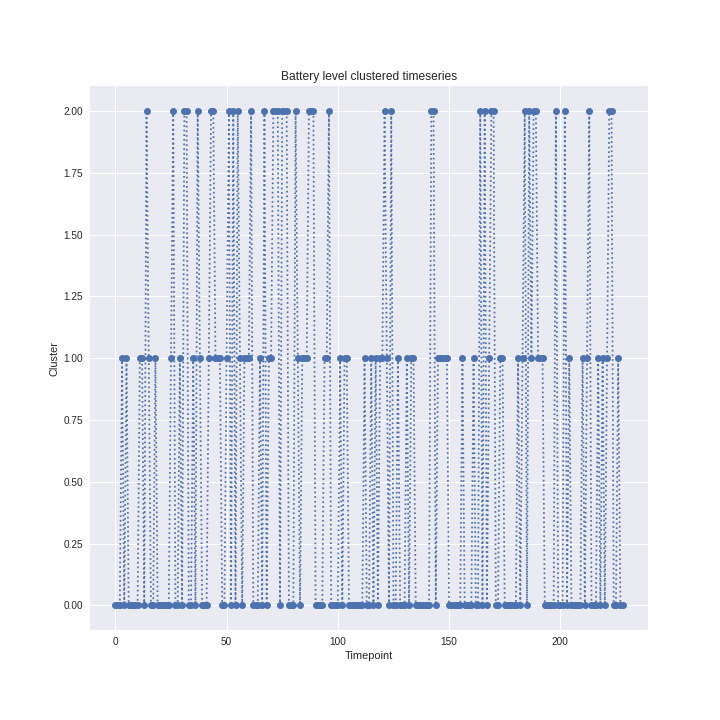
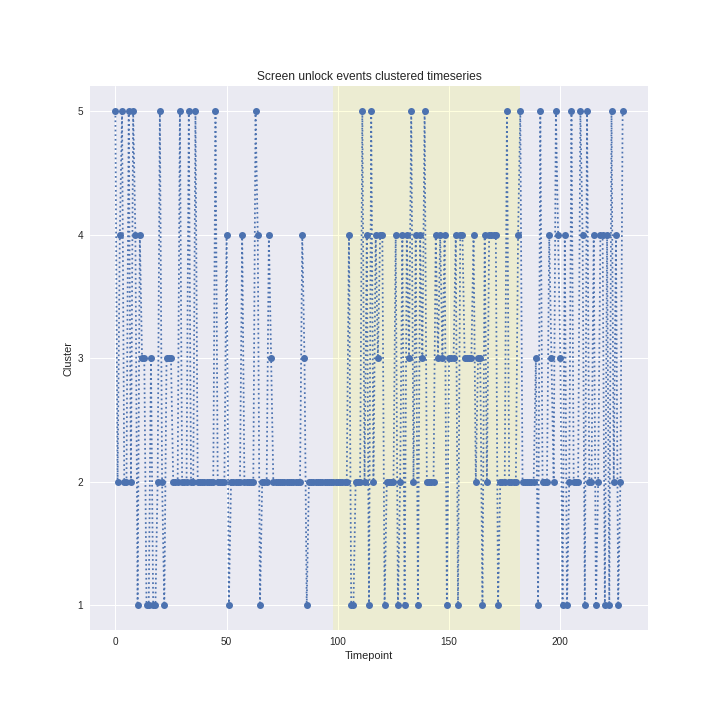
18032021¨

diff --git a/Source/Analysis/run_all.py b/Source/Analysis/run_all.py
@@ -12,6 +12,9 @@ import matplotlib.pyplot as plt
 from pathlib import Path
 import copy
 
+from datetime import datetime
+from matplotlib.dates import date2num
+
 # Local application import
 from Source.Analysis.calculate_similarity import calculate_similarity
 from Source.Analysis.calculate_novelty import compute_novelty, compute_stability
@@ -36,6 +39,71 @@ df = pd.read_csv(df_path)
 df['date'] = pd.to_datetime(df['date'])
 df = df.set_index(df['date'])
 df = df.drop(columns=['date','Other','Work/Study'])
+
+#%% normalize the dataframe
+df2 = df['2020-06-26':'2021-02-09']
+
+from sklearn import preprocessing
+
+X = df2.values
+min_max_scaler = preprocessing.MinMaxScaler()
+x_scaled = min_max_scaler.fit_transform(X)
+
+test_df = pd.DataFrame(data = x_scaled,    # values
+                       index = df2.index,   # 1st column as index
+                       columns = df2.columns)
+
+#%% select columns
+cols = ['Sleep Score', 'Average Resting Heart Rate', 'Awake Time',
+       'Respiratory Rate', 'Sleep Efficiency', 'Sleep Latency',
+       'Total Bedtime', 'Total Sleep Time', 'Average HRV',
+       'Lowest Resting Heart Rate', 'Temperature Deviation (°C)',
+       'Activity Score', 'Activity Burn', 'Inactive Time', 'Rest Time',
+       'Total Burn', 'Non-wear Time', 'Steps', 'Readiness Score', 'active',
+       'determined', 'attentive', 'inspired', 'alert', 'afraid', 'nervous',
+       'upset', 'hostile', 'ashamed', 'stressed', 'distracted','negative','positive',
+       'Communication', 'Entertainment', 'Shop', 'Social_media', 'Sports',
+       'Transportation', 'Travel', 'Health', 'Notifications_total',
+       'sms_out', 'sms_total', 'sms_in',
+       'call_out_duration', 'call_in_duration', 'call_total_duration',
+       'call_out_count', 'call_in_count', 'call_total_count',
+       'Battery_average','screen_activations', ]
+
+df_sel = test_df[cols]
+
+#%% check some correlations
+
+smooth = df_sel.rolling(window=30).mean()
+
+trend_removed = df_sel - smooth
+
+
+xcorr = trend_removed['2020-06-26':'2020-09-30'].corr()
+fig,ax = plt.subplots(1,1,figsize=(15,14))
+sns.heatmap(xcorr, cmap='RdBu_r',annot=False,ax=ax)
+plt.title("Cross-correlations '2020-06-26':'2020-09-30'",fontsize=20)
+
+xcorr = trend_removed['2020-10-1':'2020-12-24'].corr()
+fig,ax = plt.subplots(1,1,figsize=(15,14))
+sns.heatmap(xcorr, cmap='RdBu_r',annot=False,ax=ax)
+plt.title("Cross-correlations '2020-10-1':'2020-12-24'",fontsize=20)
+
+xcorr = trend_removed['2020-02-25':'2021-02-9'].corr()
+fig,ax = plt.subplots(1,1,figsize=(15,14))
+sns.heatmap(xcorr, cmap='RdBu_r',annot=False,ax=ax)
+plt.title("Cross-correlations '2020-02-25':'2021-02-9'",fontsize=20)
+
+#%% plot some
+
+
+for col in cols:
+    fig,ax  = plt.subplots(figsize=(15,10))
+    test_df[['negative','positive']].rolling(14).mean().plot(style='--', color=['r','g'],ax=ax,ylim=(-0.1,1.1),ylabel='Value',title="Rolling window mean {} : {} : {}".format('negative','positive',col))
+    #test_df[col].rolling(14).mean().plot(color='k',ax=ax)
+    (bat_re_day['Norm Cluster'].rolling(14).sum() / 14).plot(color='k',ax=ax)
+    ax.axvspan(date2num(datetime(2020,10,1)),date2num(datetime(2020,12,24)),ymin=0, ymax=1,facecolor="yellow",alpha=0.13,label="Days of interest")
+    plt.show()
+
 
 #%% SUMMARY STATISTICS
 for name in df.columns.to_list():
@@ -62,7 +130,7 @@ for name in df.columns.to_list():
     sim = calculate_similarity(ser.values.reshape(-1,1))
     stab = compute_stability(sim)
     nov, ker = compute_novelty(sim,edge=7)
-    plot_similarity(copy.deepcopy(sim),nov,stab,"{} similarity, novelty, and stability".format(name),SAVEPATH3,SAVENAME3,(0,0.06),0.8,AXIS,ker,False)
+    plot_similarity(copy.deepcopy(sim),nov,stab,"{} similarity, novelty, and stability".format(name),SAVEPATH3,SAVENAME3,(0,0.06),0.3,AXIS,ker,False)
     
 #%% ROLLING STATISTICS 
 for name in df.columns.to_list():
@@ -73,3 +141,19 @@ for name in df.columns.to_list():
     FIGNAME = name + '_rolling'
     
     _ = rolling_statistics(ser.to_frame(), w, FIGNAME, FIGPATH)
+    
+#%% CLUSTERING
+colz = ['negative','positive','Sleep Score', 'Average Resting Heart Rate', 'Awake Time',
+       'Respiratory Rate', 'Sleep Efficiency', 'Sleep Latency',
+       'Total Bedtime', 'Total Sleep Time', 'Average HRV',
+       'Lowest Resting Heart Rate', 'Temperature Deviation (°C)',
+       'Activity Score', 'Activity Burn', 'Inactive Time', 'Rest Time',
+       'Total Burn', 'Non-wear Time', 'Steps', 'Readiness Score', 'active',
+       'determined', 'attentive', 'inspired', 'alert', 'afraid', 'nervous',
+       'upset', 'hostile', 'ashamed', 'stressed', 'distracted', 'light',
+       'Communication', 'Entertainment', 'Shop', 'Social_media', 'Sports',
+       'Transportation', 'Travel', 'Health', 'Notifications_total',
+       'battery_level', 'screen_status', 'sms_out', 'sms_total', 'sms_in',
+       'call_out_duration', 'call_in_duration', 'call_total_duration',
+       'call_out_count', 'call_in_count', 'call_total_count',  'Battery_average', 'Battery_stability',
+       'screen_activations','screen_stability','app_sum','app_stability',]

diff --git a/Source/Analysis/rolling_statistics.py b/Source/Analysis/rolling_statistics.py
@@ -18,6 +18,8 @@ from scipy.stats import entropy
 #import nolds
 import pytest
 from Source.Utils.plot_decorator import plot_decorator
+from datetime import datetime
+from matplotlib.dates import date2num
 
 #TODO! why pandas dataframe is rewuired!!!!
 #TODO! the plot decorator is not working anymore
@@ -101,9 +103,9 @@ def rolling_statistics(ts,
     ent = ts.rolling(window = w).apply(entropy)
     #ent = ts.rolling(window = w).apply(nolds.sampen)
     
-    var1 = variance = ts.diff(1).fillna(0).rolling(window = w).var()
-    var2 = variance = ts.diff(1).diff(7).fillna(0).rolling(window = w).var()
-    var3 = variance = ts.diff(1).diff(7).diff(28).fillna(0).rolling(window = w).var()
+    var1 = ts.diff(1).fillna(0).rolling(window = w).var()
+    var2 = ts.diff(1).diff(7).fillna(0).rolling(window = w).var()
+    var3 = ts.diff(1).diff(7).diff(28).fillna(0).rolling(window = w).var()
     
     ac1 = ts.diff(1).fillna(0).rolling(window = w).apply(_autocorr)
     ac2 = ts.diff(1).diff(7).fillna(0).rolling(window = w).apply(_autocorr)
@@ -117,60 +119,70 @@ def rolling_statistics(ts,
     ax[0,0].set_xlabel('Date')
     ax[0,0].set_ylabel('Value')
     ax[0,0].tick_params('x', labelrotation=45)
+    ax[0,0].axvspan(date2num(datetime(2020,10,1)),date2num(datetime(2020,12,24)),ymin=0, ymax=1,facecolor="yellow",alpha=0.13,label="Days of interest")
     
     ax[0,1].plot(mean)
     ax[0,1].set_title('Mean',fontsize=16)
     ax[0,1].set_xlabel('Date')
     ax[0,1].set_ylabel('Value')
     ax[0,1].tick_params('x', labelrotation=45)
+    ax[0,1].axvspan(date2num(datetime(2020,10,1)),date2num(datetime(2020,12,24)),ymin=0, ymax=1,facecolor="yellow",alpha=0.13,label="Days of interest")
     
     ax[1,0].plot(variance)
     ax[1,0].set_title('Variance',fontsize=16)
     ax[1,0].set_xlabel('Date')
     ax[1,0].set_ylabel('Value')
     ax[1,0].tick_params('x', labelrotation=45)
+    ax[1,0].axvspan(date2num(datetime(2020,10,1)),date2num(datetime(2020,12,24)),ymin=0, ymax=1,facecolor="yellow",alpha=0.13,label="Days of interest")
     
     ax[1,1].plot(autocorrelation)
     ax[1,1].set_title('Autocorrelation',fontsize=16)
     ax[1,1].set_xlabel('Date')
     ax[1,1].set_ylabel('Value')
     ax[1,1].tick_params('x', labelrotation=45)
+    ax[1,1].axvspan(date2num(datetime(2020,10,1)),date2num(datetime(2020,12,24)),ymin=0, ymax=1,facecolor="yellow",alpha=0.13,label="Days of interest")
     
     ax[2,0].plot(var1)
     ax[2,0].set_title('Variance, diff(1)',fontsize=16)
     ax[2,0].set_xlabel('Date')
     ax[2,0].set_ylabel('Value')
     ax[2,0].tick_params('x', labelrotation=45)
+    ax[2,0].axvspan(date2num(datetime(2020,10,1)),date2num(datetime(2020,12,24)),ymin=0, ymax=1,facecolor="yellow",alpha=0.13,label="Days of interest")
     
     ax[2,1].plot(ac1)
     ax[2,1].set_title('Autocorrelation, diff(1)',fontsize=16)
     ax[2,1].set_xlabel('Date')
     ax[2,1].set_ylabel('Value')
     ax[2,1].tick_params('x', labelrotation=45)
+    ax[2,1].axvspan(date2num(datetime(2020,10,1)),date2num(datetime(2020,12,24)),ymin=0, ymax=1,facecolor="yellow",alpha=0.13,label="Days of interest")
     
     ax[3,0].plot(var2)
     ax[3,0].set_title('Variance, diff(1,7)',fontsize=16)
     ax[3,0].set_xlabel('Date')
     ax[3,0].set_ylabel('Value')
     ax[3,0].tick_params('x', labelrotation=45)
+    ax[3,0].axvspan(date2num(datetime(2020,10,1)),date2num(datetime(2020,12,24)),ymin=0, ymax=1,facecolor="yellow",alpha=0.13,label="Days of interest")
     
     ax[3,1].plot(ac2)
     ax[3,1].set_title('Autocorrelation, diff(1,7)',fontsize=16)
     ax[3,1].set_xlabel('Date')
     ax[3,1].set_ylabel('Value')
     ax[3,1].tick_params('x', labelrotation=45)
+    ax[3,1].axvspan(date2num(datetime(2020,10,1)),date2num(datetime(2020,12,24)),ymin=0, ymax=1,facecolor="yellow",alpha=0.13,label="Days of interest")
     
     ax[4,0].plot(var3)
     ax[4,0].set_title('Variance, diff(1,7,28)',fontsize=16)
     ax[4,0].set_xlabel('Date')
     ax[4,0].set_ylabel('Value')
     ax[4,0].tick_params('x', labelrotation=45)
+    ax[4,0].axvspan(date2num(datetime(2020,10,1)),date2num(datetime(2020,12,24)),ymin=0, ymax=1,facecolor="yellow",alpha=0.13,label="Days of interest")
     
     ax[4,1].plot(ac3)
     ax[4,1].set_title('Autocorrelation, diff(1,7,28)',fontsize=16)
     ax[4,1].set_xlabel('Date')
     ax[4,1].set_ylabel('Value')
     ax[4,1].tick_params('x', labelrotation=45)
+    ax[4,1].axvspan(date2num(datetime(2020,10,1)),date2num(datetime(2020,12,24)),ymin=0, ymax=1,facecolor="yellow",alpha=0.13,label="Days of interest")
     
     plt.tight_layout(pad=1)
   

diff --git a/Source/Analysis/process_battery.py b/Source/Analysis/process_battery.py
@@ -92,21 +92,23 @@ def process_battery(df,FIGPATH):
[1 lines of base64/hex data omitted]
     FIGNAME = "Clustered_timeseries"
     
-    clusters = cluster_timeseries(data,FIGNAME, FIGPATH, title="Battery level clustered timeseries",n=3)
+    clusters = cluster_timeseries(data,FIGNAME, FIGPATH, title="Screen unlock events clustered timeseries",n=5)
 
     filt_1 = clusters == 0
     filt_2 = clusters == 1
     filt_3 = clusters == 2
-    #filt_4 = clusters == 3
+    filt_4 = clusters == 3
+    filt_5 = clusters == 4
     
     clust_1 = data[filt_1]
     clust_2 = data[filt_2]
     clust_3 = data[filt_3]
-    #clust_4 = data[filt_4]
+    clust_4 = data[filt_4]
+    clust_5 = data[filt_5]
     
-    fig,ax = plt.subplots(3,1,figsize=(10,7))
+    fig,ax = plt.subplots(5,1,figsize=(10,20))
     #fig.suptitle("Battery level clusters / hourly average",fontsize=20)
-    fig.suptitle("Unlock events / daily counts",fontsize=20)
+    fig.suptitle("Screen unlock events / daily counts",fontsize=20)
     
     ax[0].plot(np.mean(clust_1,axis=0))
     ax[0].set_title('Clusters 1')
@@ -128,12 +130,19 @@ def process_battery(df,FIGPATH):
     ax[2].set(xlabel = "Time (Hour)",ylabel="Event count")
     #ax[2].set(ylim=(30,100))
     
-    '''
+    
     ax[3].plot(np.mean(clust_4,axis=0))
-    ax[3].set_title("Cluster 3")
-    ax[3].set(xlabel = "Time (Hour)",ylabel="Battery level (%)")
-    ax[3].set(ylim=(30,100))
-    '''
+    ax[3].set_title("Cluster 4")
+    #ax[3].set(xlabel = "Time (Hour)",ylabel="Battery level (%)")
+    ax[3].set(xlabel = "Time (Hour)",ylabel="Event count")
+    #ax[3].set(ylim=(30,100))
+    
+    ax[4].plot(np.mean(clust_5,axis=0))
+    ax[4].set_title("Cluster 5")
+    #ax[4].set(xlabel = "Time (Hour)",ylabel="Battery level (%)")
+    ax[4].set(xlabel = "Time (Hour)",ylabel="Event count")
+    #ax[4].set(ylim=(30,100))
+    
     
     
     fig.tight_layout(pad=1.0)
@@ -214,6 +223,6 @@ def process_battery(df,FIGPATH):
     plt.xticks(rotation=45);
     #%%
     return df, timeseries, data
-
+    '''
 if __name__ == "__main__":
     pass

diff --git a/Source/Analysis/plot_similarity.py b/Source/Analysis/plot_similarity.py
@@ -15,6 +15,7 @@ import numpy as np
 import matplotlib.pyplot as plt
 from matplotlib import gridspec
 from datetime import datetime
+from matplotlib.dates import date2num
 from Source.Utils.plot_decorator import plot_decorator
 import pytest
 
@@ -101,6 +102,7 @@ def plot_similarity(sim,
     ax1.set_title("Similarity matrix", fontsize=18)
     ax1.set_xlabel('$m = {}$'.format(sim.shape[0]),fontsize=16)
     ax1.set_ylabel('$n = {}$'.format(sim.shape[1]),fontsize=16)
+    ax1.axvspan(98,182,ymin=0, ymax=1,facecolor="yellow",alpha=0.13,label="Days of interest")
     #ax1.text(-0.1, 1.05, "A", fontsize=26, fontweight='bold', transform=ax1.transAxes,va='top', ha='right')
     
     
@@ -139,6 +141,7 @@ def plot_similarity(sim,
         #ax3.set_xticklabels(axis[::7])
         #ax2.axvspan(datetime(2020,7,1),datetime(2020,7,15),facecolor="red",alpha=0.15,label="Days of interest")
         #ax3.axvspan(29,43,facecolor="red",alpha=0.15,label="Days of interest")
+        ax3.axvspan(98,182,ymin=0, ymax=1,facecolor="yellow",alpha=0.13,label="Days of interest")
         ax3.legend(fontsize=16)
         ax3.set_ylim((0.95*np.min(nov[7:-7]),1.05*(np.max(nov[7:-7]))))
         
@@ -146,6 +149,7 @@ def plot_similarity(sim,
         ax4.set_title("Stability score", fontsize=18)
         ax4.set_xlabel('Time (day)',fontsize=16)
         ax4.set_ylabel('Stability',fontsize=16)        
+        ax4.axvspan(98,182,ymin=0, ymax=1,facecolor="yellow",alpha=0.13,label="Days of interest")
         ax4.legend(fontsize=16)
         ax4.set_ylim((0.95*np.min(stab[7:-7]),1.05*(np.max(stab[7:-7]))))
         

diff --git a/Source/Analysis/cluster_timeseries.py b/Source/Analysis/cluster_timeseries.py
@@ -11,6 +11,8 @@ import matplotlib.pyplot as plt
 import numpy as np
 from Source.Utils.plot_decorator import plot_decorator
 import pytest
+from datetime import datetime
+from matplotlib.dates import date2num
 
 @plot_decorator
 def _plot_clusters(clusters,title,xlab="Timepoint",ylab="Cluster",savename = False, savepath = False, test=False):
@@ -39,10 +41,12 @@ def _plot_clusters(clusters,title,xlab="Timepoint",ylab="Cluster",savename = Fal
     
     fig = plt.figure(figsize=(10,10))
     
-    plt.plot(clusters,'o:')
+    plt.plot(clusters +1 ,'o:')
+    plt.axvspan(98,182,ymin=0, ymax=1,facecolor="yellow",alpha=0.13,label="Days of interest")
     plt.title(title)
     plt.xlabel(xlab)
     plt.ylabel(ylab)
+    plt.yticks(np.arange(1,6))
     
     return fig
     
